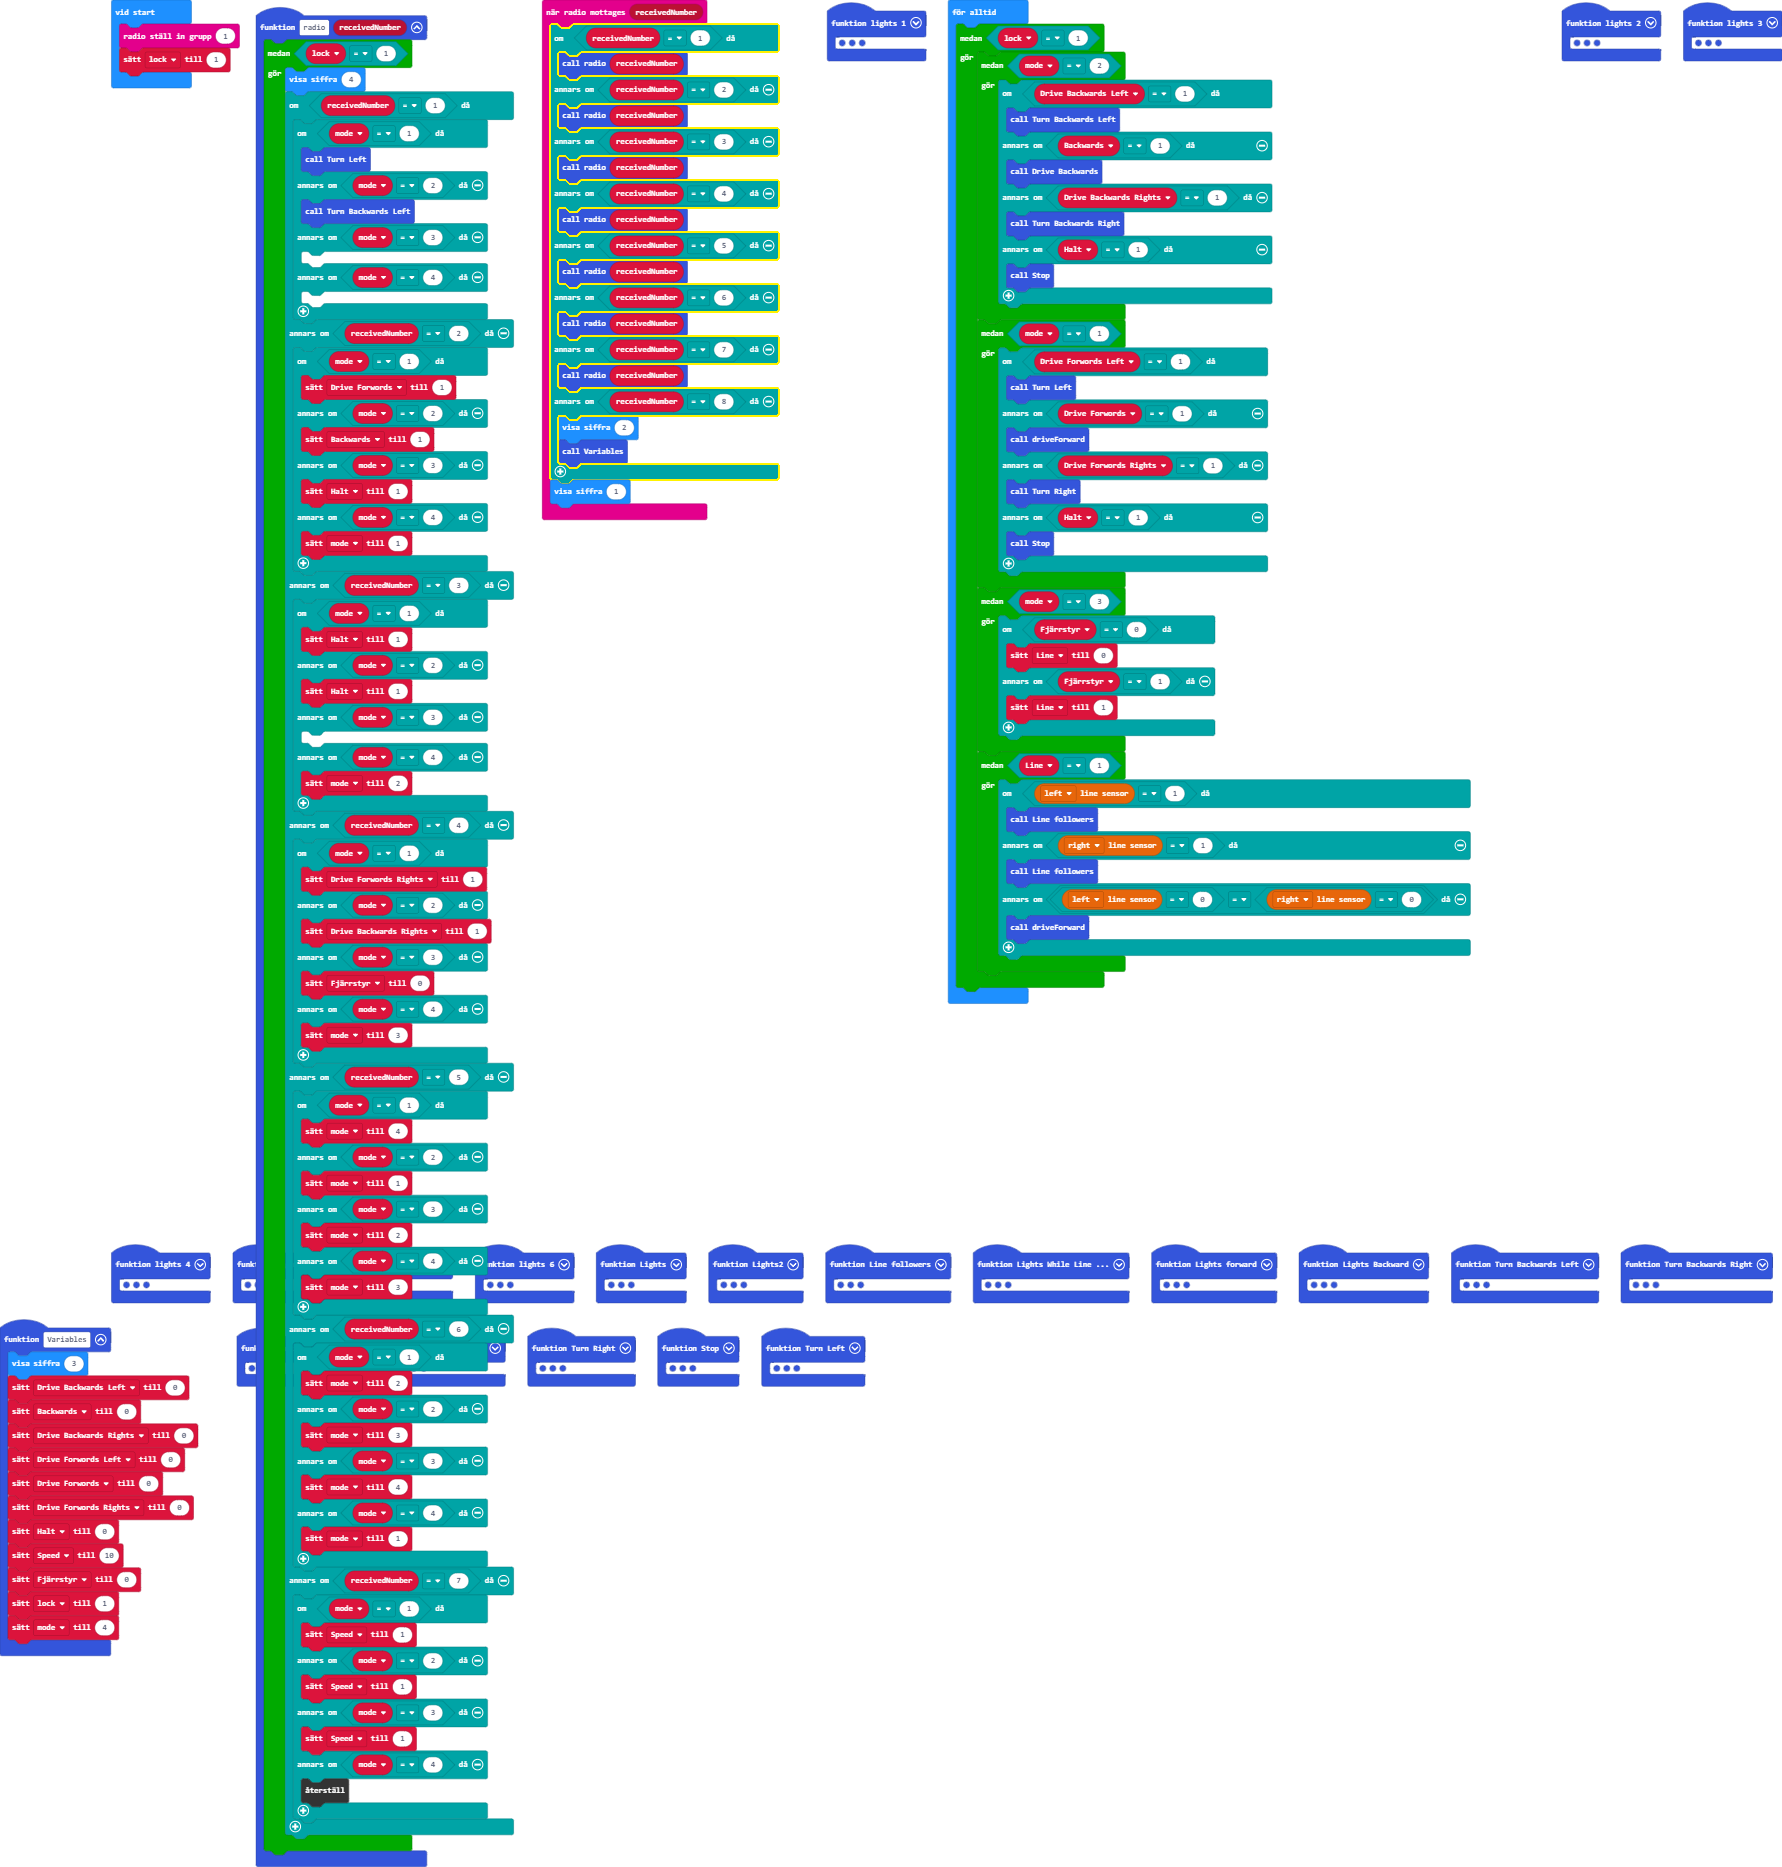
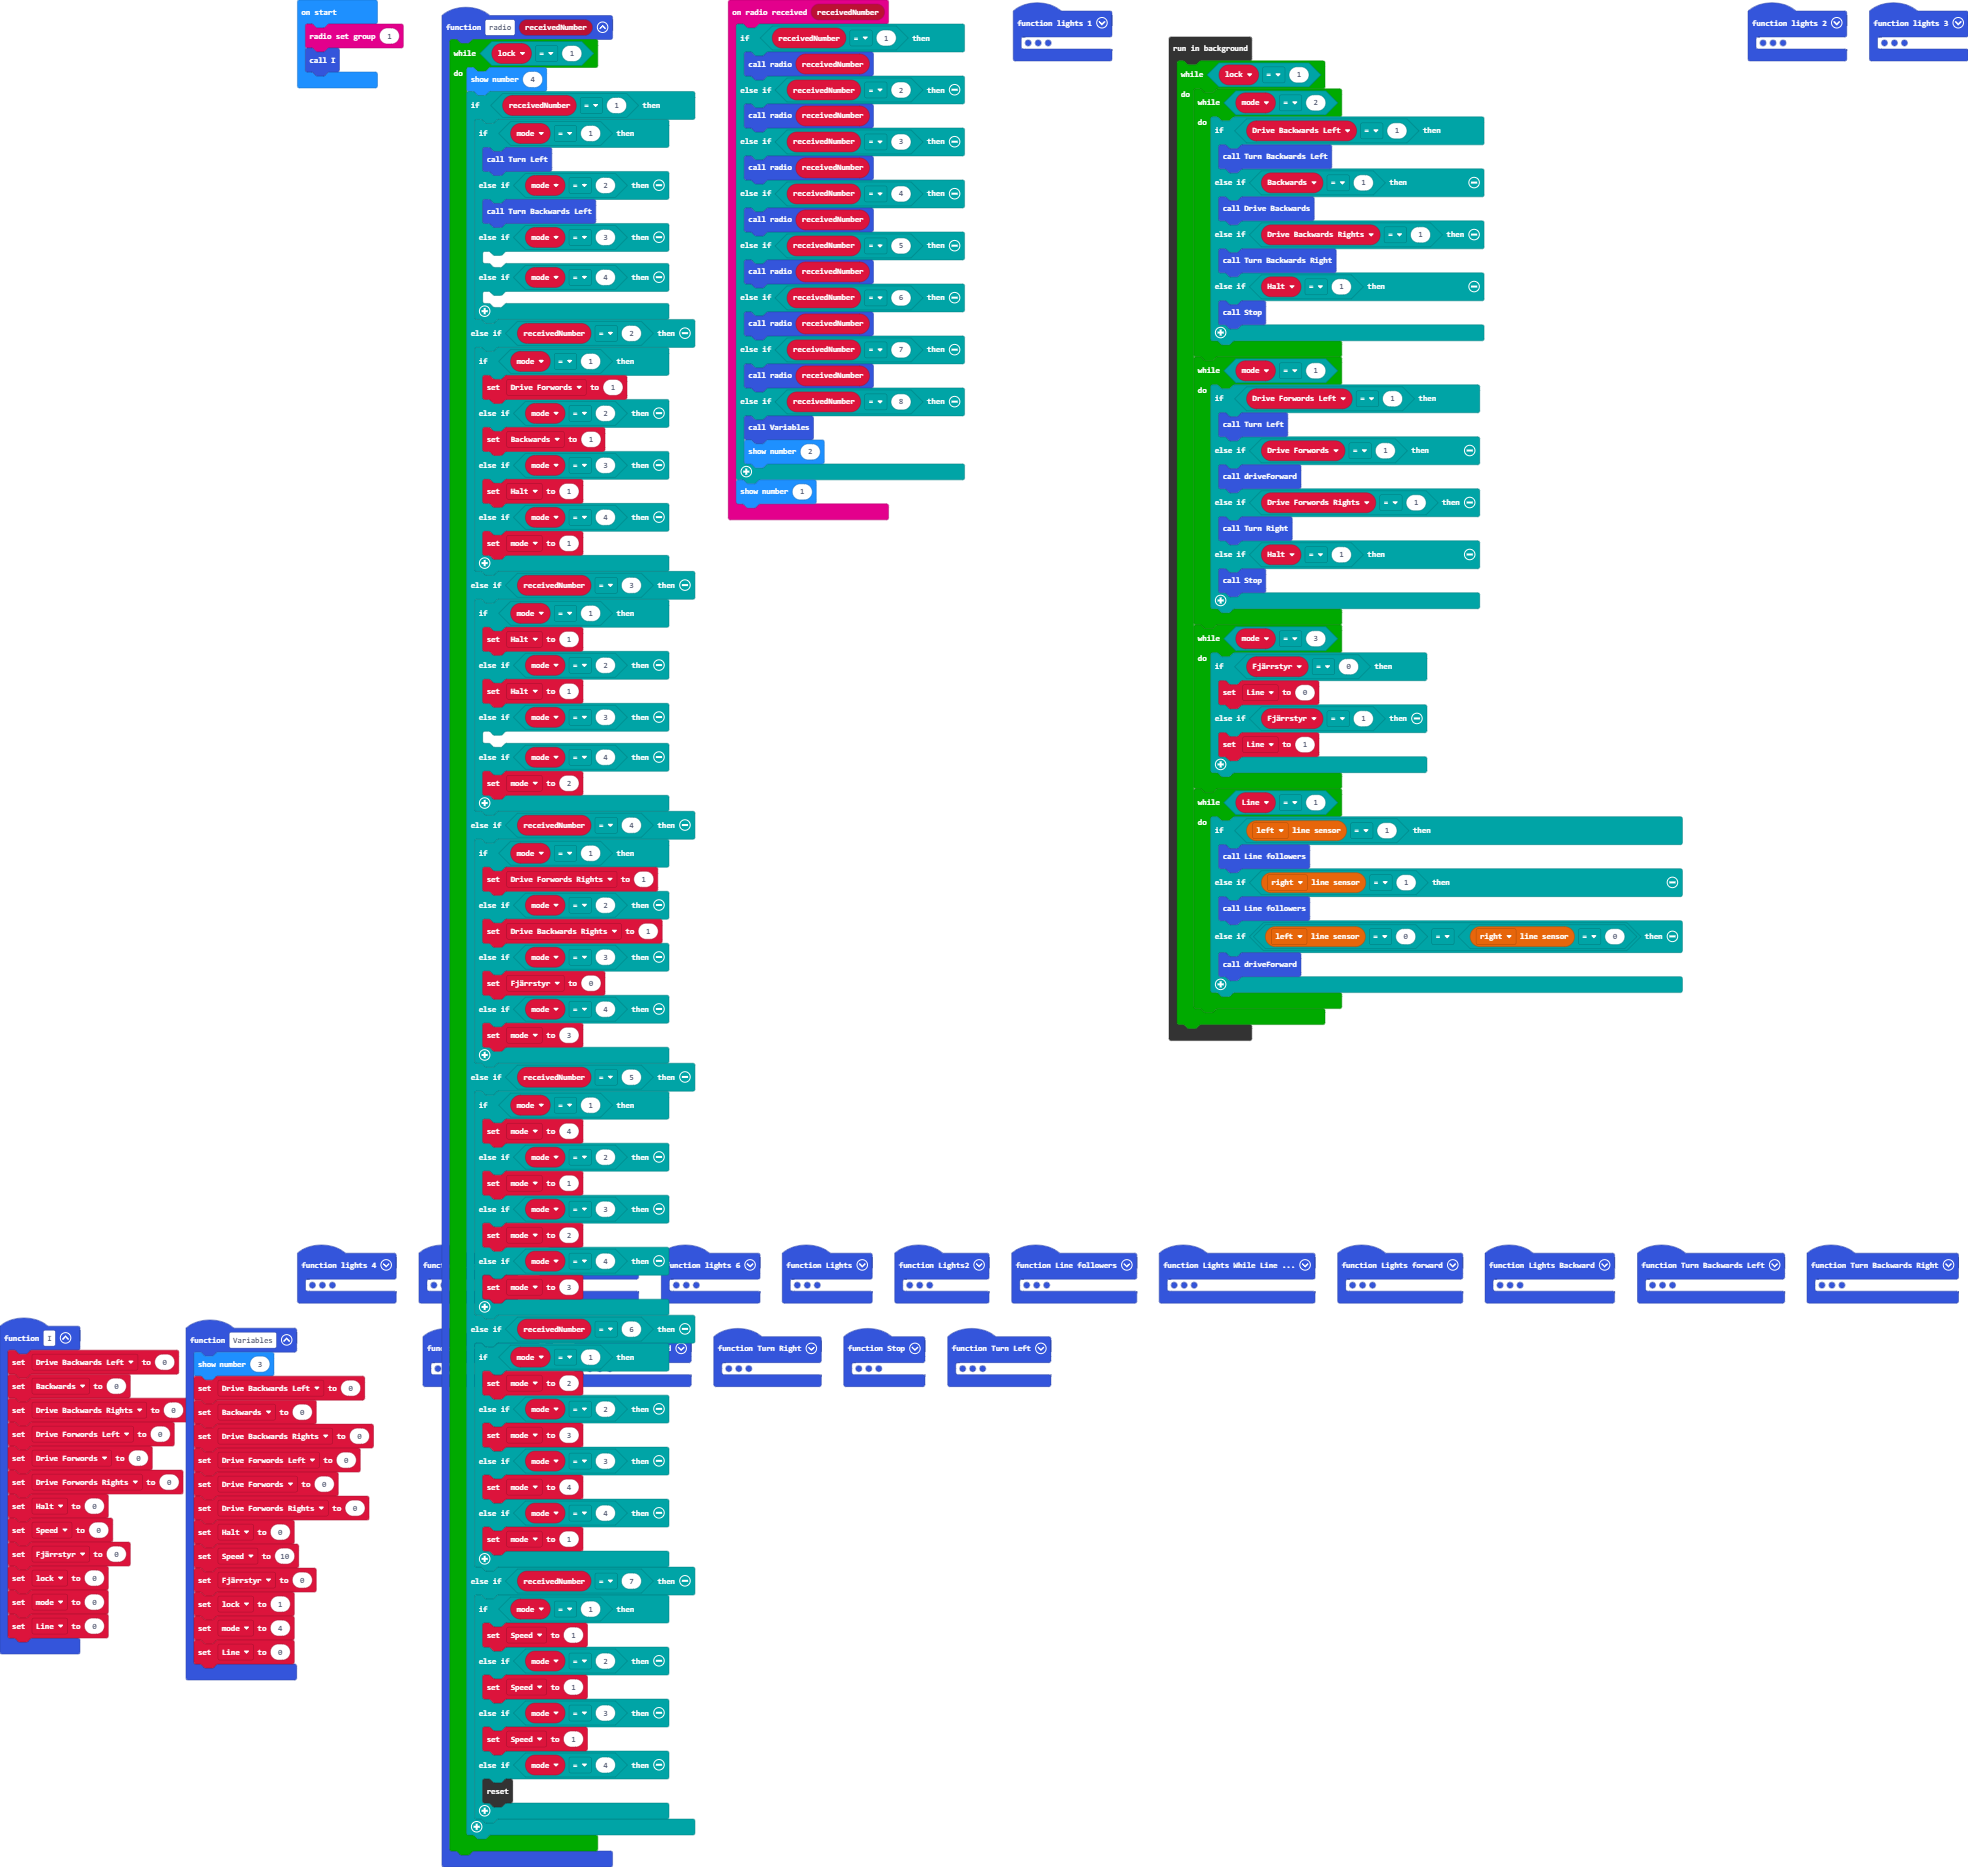
Update main.blocks, main.ts

diff --git a/main.ts b/main.ts
@@ -65,8 +65,8 @@ radio.onReceivedNumber(function (receivedNumber) {
     } else if (receivedNumber == 7) {
         radio2(receivedNumber)
     } else if (receivedNumber == 8) {
-        basic.showNumber(2)
         Variables()
+        basic.showNumber(2)
     }
     basic.showNumber(1)
 })
@@ -227,6 +227,20 @@ function radio2 (receivedNumber: number) {
         }
     }
 }
+function I () {
+    Drive_Backwards_Left = 0
+    Backwards = 0
+    Drive_Backwards_Rights = 0
+    Drive_Forwords_Left = 0
+    Drive_Forwords = 0
+    Drive_Forwords_Rights = 0
+    Halt = 0
+    Speed = 0
+    Fjärrstyr = 0
+    lock = 0
+    mode = 0
+    Line = 0
+}
 function lights_2 () {
     bitbot.setPixelColor(1, 0x659900)
     bitbot.setPixelColor(7, 0x659900)
@@ -309,6 +323,7 @@ function Variables () {
     Fjärrstyr = 0
     lock = 1
     mode = 4
+    Line = 0
 }
 let Line = 0
 let Drive_Forwords_Left = 0
@@ -319,13 +334,13 @@ let Drive_Forwords_Rights = 0
 let Halt = 0
 let Backwards = 0
 let Drive_Forwords = 0
+let lock = 0
 let Speed = 0
 let mode = 0
 let Led = 0
-let lock = 0
 radio.setGroup(1)
-lock = 1
-basic.forever(function () {
+I()
+control.inBackground(function () {
     while (lock == 1) {
         while (mode == 2) {
             if (Drive_Backwards_Left == 1) {
